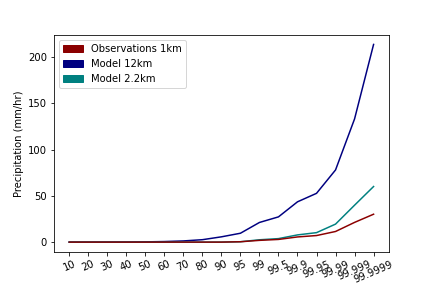
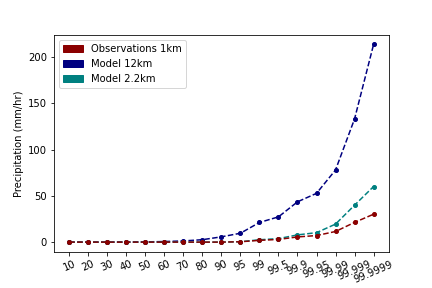
>

diff --git a/PrecipitationPDFs/leeds-at-centre/Compare_RCM_CPM_OBS.py b/PrecipitationPDFs/leeds-at-centre/Compare_RCM_CPM_OBS.py
@@ -1,28 +1,10 @@
 ### Does it matter that 12km model is daily rather than hourly?
 
-import numpy.ma as ma
-import iris.coord_categorisation
-import iris
-import glob
 import numpy as np
-from numba import jit
 import os
-import geopandas as gpd
-import time
 import sys
-import iris.quickplot as qplt
-import cartopy.crs as ccrs
-import matplotlib
-import iris.plot as iplt
-from scipy import spatial
-import itertools
-from shapely.geometry import Point, Polygon
-from pyproj import Proj, transform
 import matplotlib.pyplot as plt
 import pandas as pd
-import tilemapbase
-import matplotlib as mpl
-import datetime
 
 import warnings
 warnings.simplefilter(action='ignore', category=FutureWarning)
@@ -211,134 +193,134 @@ bins_if_log_spaced= bin_nos
 ##############################################################
 # All resolutions
 ##############################################################
-for dict, overlapping_status in zip([leeds_data_dict, leeds_data_dict_overlapping], ["","_Overlapping"]):
-    print(dict.keys(), overlapping_status)
-    cols_dict = {'Observations' : 'darkgoldenrod',
-                  'Observations Regridded_2.2km' : 'tomato',
-                  'Observations Regridded_12km' : 'darkred',
-                  'Model 12km' : 'navy',
-                  'Model 2.2km' : 'slateblue',
-                  'Model 2.2km_regridded_12km': 'teal'}
-    # Create patches
-    patches= []
-    for key, val in cols_dict.items():
-        patch = mpatches.Patch(color= val, label= key)
-        patches.append(patch)
-
-    # Create plot
-    #log_discrete_with_inset(dict, cols_dict, bin_nos, "Precipitation (mm/hr)",
-    #                              patches, True, False)
-
-    log_discrete_histogram_lesslegend(dict, cols_dict, bin_nos, "Precipitation (mm/hr)",
-                                      patches, True, xlim, x_axis, y_axis)
-    #Save
-    plt.savefig("Scripts/UKCP18/PrecipitationPDFs/leeds-at-centre/Figs/RCMvsCPMvsObs/All{}_{}.png".format(overlapping_status, jja_status))
-
-# ####### Plot - compring 2.2km model and 2.2km regridded observation
-for dict, overlapping_status in zip([leeds_data_dict, leeds_data_dict_overlapping], ["","_Overlapping"]):
-    print(dict.keys(), overlapping_status)
-    just_2_2kms = dict.copy()
-    del just_2_2kms['Model 12km'], just_2_2kms['Observations'], just_2_2kms['Observations Regridded_12km'], just_2_2kms['Model 2.2km_regridded_12km']
-    cols_dict = {'Observations Regridded_2.2km' : 'tomato',
-                  'Model 2.2km' : 'slateblue'}
-    # Create patches
-    patches= []
-    for key, val in cols_dict.items():
-        patch = mpatches.Patch(color= val, label= key)
-        patches.append(patch)
-
-    # Create plot
-    log_discrete_histogram_lesslegend(just_2_2kms, cols_dict, bin_nos, "Precipitation (mm/hr)",
-                                      patches, True, False, x_axis, y_axis)
-    plt.savefig("Scripts/UKCP18/PrecipitationPDFs/leeds-at-centre/Figs//ModelVsObs_2.2km_{}_{}.png".format(overlapping_status, jja_status))
-
-
-# ####### Plot just Model, to see effect of regridding
-for dict, overlapping_status in zip([leeds_data_dict, leeds_data_dict_overlapping], ["","_Overlapping"]):
-    print(dict.keys(), overlapping_status)
-    just_model = dict.copy()
-    del just_model['Observations Regridded_2.2km'], just_model['Observations'], just_model['Observations Regridded_12km']
-    cols_dict = {'Model 12km' : 'navy',
-                  'Model 2.2km' : 'slateblue',
-                  'Model 2.2km_regridded_12km': 'teal'}
-    # Create patches
-    patches= []
-    for key, val in cols_dict.items():
-        patch = mpatches.Patch(color= val, label= key)
-        patches.append(patch)
-
-    # Create plot
-    log_discrete_histogram_lesslegend(just_model, cols_dict, bin_nos, "Precipitation (mm/hr)",
-                                      patches, True, False, x_axis, y_axis)
-    plt.savefig("Scripts/UKCP18/PrecipitationPDFs/leeds-at-centre/Figs/RCMvsCPMvsObs/JustModel_{}_{}.png".format(overlapping_status,jja_status))
-
-# ###############################################################
-####### Plot just Obs, to see effect of regridding
-for dict, overlapping_status in zip([leeds_data_dict, leeds_data_dict_overlapping], ["","_Overlapping"]):
-    print(dict.keys(), overlapping_status)
-
-    just_obs = dict.copy()
-    del just_obs['Model 12km'], just_obs['Model 2.2km'], just_obs['Model 2.2km_regridded_12km']
-
-    cols_dict = {'Observations' : 'darkgoldenrod',
-                      'Observations Regridded_2.2km' : 'tomato',
-                      'Observations Regridded_12km' : 'darkred'}
-    # Create patches
-    patches= []
-    for key, val in cols_dict.items():
-        patch = mpatches.Patch(color= val, label= key)
-        patches.append(patch)
-
-    # Create plot
-    log_discrete_histogram_lesslegend(just_obs, cols_dict, bin_nos, "Precipitation (mm/hr)",
-                                      patches, True, False, x_axis, y_axis)
-    plt.savefig("Scripts/UKCP18/PrecipitationPDFs/leeds-at-centre/Figs/RCMvsCPMvsObs/JustObs_{}_{}.png".format(overlapping_status,jja_status))
-
+# for dict, overlapping_status in zip([leeds_data_dict, leeds_data_dict_overlapping], ["","_Overlapping"]):
+#     print(dict.keys(), overlapping_status)
+#     cols_dict = {'Observations' : 'darkgoldenrod',
+#                   'Observations Regridded_2.2km' : 'tomato',
+#                   'Observations Regridded_12km' : 'darkred',
+#                   'Model 12km' : 'navy',
+#                   'Model 2.2km' : 'slateblue',
+#                   'Model 2.2km_regridded_12km': 'teal'}
+#     # Create patches
+#     patches= []
+#     for key, val in cols_dict.items():
+#         patch = mpatches.Patch(color= val, label= key)
+#         patches.append(patch)
 #
-# ###############################################################
-# ####### Plot just 12km
-just_12km = leeds_data_dict.copy()
-del just_12km['Model 2.2km'], just_12km['Observations Regridded_2.2km'], just_12km['Observations']
-
-cols_dict = {'Observations Regridded_12km' : 'darkred',
-              'Model 12km' : 'navy',
-              'Model 2.2km_regridded_12km': 'teal'}
-
-# Create patches
-patches= []
-for key, val in cols_dict.items():
-    patch = mpatches.Patch(color= val, label= key)
-    patches.append(patch)
-
-# Create plot
-log_discrete_histogram_lesslegend(just_12km, cols_dict, bin_no, "Precipitation (mm/hr)",
-                                  patches, True, False, x_axis, y_axis)
-plt.savefig("Scripts/UKCP18/PrecipitationPDFs/leeds-at-centre/Figs/RCMvsCPMvsObs/Just12kms_{}.png".format(jja_status))
-
-# ##################### Plot just 12km -Better legend
-for dict, overlapping_status in zip([leeds_data_dict, leeds_data_dict_overlapping], ["","_Overlapping"]):
-    print(dict.keys(), overlapping_status)
-    just_12km = dict.copy()
-    del just_12km['Model 2.2km'], just_12km['Observations Regridded_2.2km'], just_12km['Observations']
-
-    # Wet hours
-    #for key in just_12km.keys():
-    #    just_12km[key] = just_12km[key][just_12km[key]['Precipitation (mm/hr)'] > 0.1]
-
-    cols_dict = {'Observations Regridded_12km' : 'darkred',
-                 'Model 12km' : 'navy',
-                 'Model 2.2km_regridded_12km': 'teal'}
-
-    # Create patches
-    patches= []
-    patches.append(mpatches.Patch(color= 'darkred', label= 'CEH-GEAR'))
-    patches.append(mpatches.Patch(color= 'navy', label= 'UKCP18 12km'))
-    patches.append(mpatches.Patch(color= 'teal', label= 'UKCP18 2.2km'))
-
-    # Create plot
-    df = log_discrete_histogram_lesslegend(just_12km, cols_dict, bin_nos, "Precipitation (mm/hr)",
-                                      patches, True, False)
-    plt.savefig("Scripts/UKCP18/PrecipitationPDFs/leeds-at-centre/Figs/RCMvsCPMvsObs/Just12kms_{}_{}.png".format(overlapping_status, jja_status))
+#     # Create plot
+#     #log_discrete_with_inset(dict, cols_dict, bin_nos, "Precipitation (mm/hr)",
+#     #                              patches, True, False)
+#
+#     log_discrete_histogram_lesslegend(dict, cols_dict, bin_nos, "Precipitation (mm/hr)",
+#                                       patches, True, xlim, x_axis, y_axis)
+#     #Save
+#     plt.savefig("Scripts/UKCP18/PrecipitationPDFs/leeds-at-centre/Figs/RCMvsCPMvsObs/All{}_{}.png".format(overlapping_status, jja_status))
+#
+# # ####### Plot - compring 2.2km model and 2.2km regridded observation
+# for dict, overlapping_status in zip([leeds_data_dict, leeds_data_dict_overlapping], ["","_Overlapping"]):
+#     print(dict.keys(), overlapping_status)
+#     just_2_2kms = dict.copy()
+#     del just_2_2kms['Model 12km'], just_2_2kms['Observations'], just_2_2kms['Observations Regridded_12km'], just_2_2kms['Model 2.2km_regridded_12km']
+#     cols_dict = {'Observations Regridded_2.2km' : 'tomato',
+#                   'Model 2.2km' : 'slateblue'}
+#     # Create patches
+#     patches= []
+#     for key, val in cols_dict.items():
+#         patch = mpatches.Patch(color= val, label= key)
+#         patches.append(patch)
+#
+#     # Create plot
+#     log_discrete_histogram_lesslegend(just_2_2kms, cols_dict, bin_nos, "Precipitation (mm/hr)",
+#                                       patches, True, False, x_axis, y_axis)
+#     plt.savefig("Scripts/UKCP18/PrecipitationPDFs/leeds-at-centre/Figs//ModelVsObs_2.2km_{}_{}.png".format(overlapping_status, jja_status))
+#
+#
+# # ####### Plot just Model, to see effect of regridding
+# for dict, overlapping_status in zip([leeds_data_dict, leeds_data_dict_overlapping], ["","_Overlapping"]):
+#     print(dict.keys(), overlapping_status)
+#     just_model = dict.copy()
+#     del just_model['Observations Regridded_2.2km'], just_model['Observations'], just_model['Observations Regridded_12km']
+#     cols_dict = {'Model 12km' : 'navy',
+#                   'Model 2.2km' : 'slateblue',
+#                   'Model 2.2km_regridded_12km': 'teal'}
+#     # Create patches
+#     patches= []
+#     for key, val in cols_dict.items():
+#         patch = mpatches.Patch(color= val, label= key)
+#         patches.append(patch)
+#
+#     # Create plot
+#     log_discrete_histogram_lesslegend(just_model, cols_dict, bin_nos, "Precipitation (mm/hr)",
+#                                       patches, True, False, x_axis, y_axis)
+#     plt.savefig("Scripts/UKCP18/PrecipitationPDFs/leeds-at-centre/Figs/RCMvsCPMvsObs/JustModel_{}_{}.png".format(overlapping_status,jja_status))
+#
+# # ###############################################################
+# ####### Plot just Obs, to see effect of regridding
+# for dict, overlapping_status in zip([leeds_data_dict, leeds_data_dict_overlapping], ["","_Overlapping"]):
+#     print(dict.keys(), overlapping_status)
+#
+#     just_obs = dict.copy()
+#     del just_obs['Model 12km'], just_obs['Model 2.2km'], just_obs['Model 2.2km_regridded_12km']
+#
+#     cols_dict = {'Observations' : 'darkgoldenrod',
+#                       'Observations Regridded_2.2km' : 'tomato',
+#                       'Observations Regridded_12km' : 'darkred'}
+#     # Create patches
+#     patches= []
+#     for key, val in cols_dict.items():
+#         patch = mpatches.Patch(color= val, label= key)
+#         patches.append(patch)
+#
+#     # Create plot
+#     log_discrete_histogram_lesslegend(just_obs, cols_dict, bin_nos, "Precipitation (mm/hr)",
+#                                       patches, True, False, x_axis, y_axis)
+#     plt.savefig("Scripts/UKCP18/PrecipitationPDFs/leeds-at-centre/Figs/RCMvsCPMvsObs/JustObs_{}_{}.png".format(overlapping_status,jja_status))
+#
+# #
+# # ###############################################################
+# # ####### Plot just 12km
+# just_12km = leeds_data_dict.copy()
+# del just_12km['Model 2.2km'], just_12km['Observations Regridded_2.2km'], just_12km['Observations']
+#
+# cols_dict = {'Observations Regridded_12km' : 'darkred',
+#               'Model 12km' : 'navy',
+#               'Model 2.2km_regridded_12km': 'teal'}
+#
+# # Create patches
+# patches= []
+# for key, val in cols_dict.items():
+#     patch = mpatches.Patch(color= val, label= key)
+#     patches.append(patch)
+#
+# # Create plot
+# log_discrete_histogram_lesslegend(just_12km, cols_dict, bin_no, "Precipitation (mm/hr)",
+#                                   patches, True, False, x_axis, y_axis)
+# plt.savefig("Scripts/UKCP18/PrecipitationPDFs/leeds-at-centre/Figs/RCMvsCPMvsObs/Just12kms_{}.png".format(jja_status))
+#
+# # ##################### Plot just 12km -Better legend
+# for dict, overlapping_status in zip([leeds_data_dict, leeds_data_dict_overlapping], ["","_Overlapping"]):
+#     print(dict.keys(), overlapping_status)
+#     just_12km = dict.copy()
+#     del just_12km['Model 2.2km'], just_12km['Observations Regridded_2.2km'], just_12km['Observations']
+#
+#     # Wet hours
+#     #for key in just_12km.keys():
+#     #    just_12km[key] = just_12km[key][just_12km[key]['Precipitation (mm/hr)'] > 0.1]
+#
+#     cols_dict = {'Observations Regridded_12km' : 'darkred',
+#                  'Model 12km' : 'navy',
+#                  'Model 2.2km_regridded_12km': 'teal'}
+#
+#     # Create patches
+#     patches= []
+#     patches.append(mpatches.Patch(color= 'darkred', label= 'CEH-GEAR'))
+#     patches.append(mpatches.Patch(color= 'navy', label= 'UKCP18 12km'))
+#     patches.append(mpatches.Patch(color= 'teal', label= 'UKCP18 2.2km'))
+#
+#     # Create plot
+#     df = log_discrete_histogram_lesslegend(just_12km, cols_dict, bin_nos, "Precipitation (mm/hr)",
+#                                       patches, True, False)
+#     plt.savefig("Scripts/UKCP18/PrecipitationPDFs/leeds-at-centre/Figs/RCMvsCPMvsObs/Just12kms_{}_{}.png".format(overlapping_status, jja_status))
 
 
 # # ##########################################################################
@@ -398,15 +380,18 @@ for dict, overlapping_status in zip([leeds_data_dict, leeds_data_dict_overlappin
             if key == 'Model 12km':
                 filtered = test[key]
                 filtered = filtered[:x]
-                plt.plot(filtered, color = 'navy')
+                plt.plot(filtered, color = 'navy', s =3, marker ='o', linestyle ='dashed')
             if key == 'Model 2.2km_regridded_12km':
                 filtered = test[key]
                 filtered = filtered[:x]
                 plt.plot(filtered, color = 'teal')
+                plt.scatter(filtered, freqs ,linewidth = 1,s=3, color = 'teal')
             if key == 'Observations Regridded_12km':
                 filtered = test[key]
                 filtered = filtered[:x]
                 plt.plot(filtered, color = 'darkred')
+                plt.scatter(filtered, freqs ,linewidth = 1,s=3, color = 'darkred')
+
             plt.xlabel('Percentile')
             plt.ylabel('Precipitation (mm/hr)')
             plt.legend(handles=[darkred_patch, navy_patch, teal_patch])
@@ -434,11 +419,11 @@ wet_hours_lst = []
 for key, value in just_12km.items():
     print(value)
     df= value
-    
+
     zero_hours_lst.append(round((len(value[value['Precipitation (mm/hr)'] ==0])/len(value) *100  ),1))
     dry_hours_lst.append(round((len(value[(value['Precipitation (mm/hr)'] <0.11) & value['Precipitation (mm/hr)']>0])/len(value) *100  ),1))
     low_hours_lst.append(round((len(value[(value['Precipitation (mm/hr)'] <0.51) & value['Precipitation (mm/hr)']>0])/len(value) *100  ),1))
-    less_low_hours_lst.append(round((len(value[(value['Precipitation (mm/hr)'] <1) & value['Precipitation (mm/hr)']>0])/len(value) *100  ),1))    
+    less_low_hours_lst.append(round((len(value[(value['Precipitation (mm/hr)'] <1) & value['Precipitation (mm/hr)']>0])/len(value) *100  ),1))
     more_than_1_hours_lst.append(round((len(value[value['Precipitation (mm/hr)'] >1])/len(value) *100  ),1))
     wet_hours_lst.append(round((len(value[value['Precipitation (mm/hr)'] >0.1])/len(value) *100  ),1))
 
@@ -471,5 +456,3 @@ plt.xlabel('mm/hr')
 plt.ylabel('Probability density')
 plt.legend()
 plt.xticks(bins)
-
-
